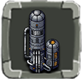
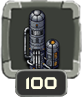
Update tower selection buttons with prices and show saved-data graphics under map
- Changed three tower selection button sprites to include price tags
- Displayed graphics below the map based on saved data

diff --git a/TowerDefense/TowerDefense/MapSelectionState.cpp b/TowerDefense/TowerDefense/MapSelectionState.cpp
@@ -1,4 +1,4 @@
-#include "MapSelectionState.h"
+#include "MapSelectionState.h"
 #include "Utility.h"
 #include "Foreach.h"
 #include "ResourceHolder.h"
@@ -45,7 +45,7 @@ MapSelectionState::MapSelectionState(StateStack& stack, Context context)
 	centerOrigin(level4);
 	unlockedLevels.push_back(level4);
 
-	// Load locked map textures (map 1 is always unlocked) (use later)
+	// Load locked map textures (map 1 is always unlocked)
 	sf::Sprite level2Locked;
 	level2Locked.setTexture(context.textures->get(Textures::miniMap2Locked));
 	level2Locked.setPosition(1380.0f, 360.0f);
@@ -73,48 +73,82 @@ MapSelectionState::MapSelectionState(StateStack& stack, Context context)
 		{
 			string temp = to_string(SaveManagement::playerResult[i].curWave + 1);
 
-			Text wave;
+			Text waveText;
+			waveText.setFont(font);
+			waveText.setCharacterSize(40);
+			waveText.setFillColor(Color::Yellow);
+			currentWave.push_back(waveText);
+
+			sf::Sprite waveIcon;
+			waveIcon.setTexture(context.textures->get(Textures::wave));
+			waveIcon.setScale(1.3f, 1.3f);
+
 			if (i == 0)
 			{
-				wave.setString(temp + "/" + to_string(3));
-				wave.setPosition(580.0f, 360.0f);
+				waveText.setString(temp + "/" + to_string(3));
+				waveText.setPosition(560.0f, 550.0f);
+				waveIcon.setPosition(480.0f, 550.0f);
 			}
 			else if (i == 1)
 			{
-				wave.setString(temp + "/" + to_string(3));
-				wave.setPosition(1380.0f, 360.0f);
+				waveText.setString(temp + "/" + to_string(3));
+				waveText.setPosition(1360.0f, 550.0f);
+				waveIcon.setPosition(1280.0f, 550.0f);
 			}
 			else if (i == 2)
 			{
-				wave.setString(temp + "/" + to_string(4));
-				wave.setPosition(580.0f, 800.0f);
+				waveText.setString(temp + "/" + to_string(4));
+				waveText.setPosition(560.0f, 990.0f);
+				waveIcon.setPosition(480.0f, 990.0f);
 			}
 			else if (i == 3)
 			{
-				wave.setString(temp + "/" + to_string(5));
-				wave.setPosition(1380.0f, 800.0f);
+				waveText.setString(temp + "/" + to_string(5));
+				waveText.setPosition(1360.0f, 990.f);
+				waveIcon.setPosition(1280.0f, 990.0f);
 			}
 
-			wave.setFont(font);
-			wave.setCharacterSize(20);
-			wave.setFillColor(Color::Yellow);
-			currentWave.push_back(wave);
+			waveInfo.push_back({ waveIcon, waveText });
 		}
+
 		else if (SaveManagement::playerResult[i].status == 1) // done playing
 		{
-			string temp = to_string(SaveManagement::playerResult[i].stars);
-			Text star;
-			star.setString("STAR" + temp);
+			int starCount = SaveManagement::playerResult[i].stars;
+			std::vector<sf::Sprite> starsForLevel;
 
-			if (i == 0) star.setPosition(580.0f, 360.0f);
-			else if (i == 1) star.setPosition(1380.0f, 360.0f);
-			else if (i == 2) star.setPosition(580.0f, 800.0f);
-			else star.setPosition(1380.0f, 800.0f);
+			if (starCount > 0)
+			{
+				const float scale = 0.7f;
+				const float spacing = 12.f;     
+				const float offsetY = 220.f;
 
-			star.setFont(font);
-			star.setCharacterSize(20);
-			star.setFillColor(Color::Yellow);
-			stars.push_back(star);
+				sf::Sprite proto;
+				proto.setTexture(context.textures->get(Textures::star));
+				proto.setScale(scale, scale);
+
+				auto lb = proto.getLocalBounds();
+				float w = lb.width * scale;
+				float h = lb.height * scale;
+
+				sf::Vector2f center = unlockedLevels[i].getPosition();
+				center.y += offsetY;
+
+				// Compute the total width of the star row, then left-most x to center it
+				float totalW = starCount * w + (starCount - 1) * spacing;
+				float startX = center.x - totalW * 0.5f;
+
+				for (int s = 0; s < starCount; ++s)
+				{
+					sf::Sprite starSprite = proto;
+					starSprite.setOrigin(lb.width * 0.5f, lb.height * 0.5f);
+
+					float x = startX + s * (w + spacing) + w * 0.5f;
+					starSprite.setPosition(x, center.y);
+					starsForLevel.push_back(starSprite);
+				}
+			}
+
+			starIcons.push_back(std::move(starsForLevel));
 		}
 	}
 
@@ -159,18 +193,20 @@ void MapSelectionState::draw()
 
 			if (SaveManagement::playerResult[i].status == -1)
 			{
-				if (currentWaveIndex < currentWave.size())
-					window.draw(currentWave[currentWaveIndex]);
-				currentWaveIndex++;
+				window.draw(waveInfo[currentWaveIndex].first);   // icon wave
+				window.draw(waveInfo[currentWaveIndex].second);  // text wave
+					currentWaveIndex++;
 			}
+
 			else if (SaveManagement::playerResult[i].status == 1)
 			{
-				if (starsIndex < stars.size())
-					window.draw(stars[starsIndex]);
+				for (auto& s : starIcons[starsIndex])
+					window.draw(s);
 				starsIndex++;
 			}
 			continue;
 		}
+
 		else
 		{
 			if (!(SaveManagement::playerResult[i - 1].win)) // Locked: previous level is not done
@@ -184,6 +220,7 @@ void MapSelectionState::draw()
 			}
 			else // Unlocked
 			{
+
 				if (unlockedLevels[i].getGlobalBounds().contains(mousePos))
 					unlockedLevels[i].setScale(1.1f, 1.1f);
 				else
@@ -193,14 +230,15 @@ void MapSelectionState::draw()
 
 				if (SaveManagement::playerResult[i].status == -1)
 				{
-					if (currentWaveIndex < currentWave.size())
-						window.draw(currentWave[currentWaveIndex]);
+					window.draw(waveInfo[currentWaveIndex].first);   // icon wave
+					window.draw(waveInfo[currentWaveIndex].second);  // text wave
 					currentWaveIndex++;
 				}
+
 				else if (SaveManagement::playerResult[i].status == 1)
 				{
-					if (starsIndex < stars.size())
-						window.draw(stars[starsIndex]);
+					for (auto& s : starIcons[starsIndex])
+						window.draw(s);
 					starsIndex++;
 				}
 			}
@@ -242,4 +280,3 @@ bool MapSelectionState::handleEvent(const sf::Event& event)
 
 	return true;
 }
-

diff --git a/TowerDefense/TowerDefense/GameState.cpp b/TowerDefense/TowerDefense/GameState.cpp
@@ -225,6 +225,16 @@ void GameState::draw()
         pauseButton.setScale(1.f, 1.f);
     window.draw(pauseButton);
 
+    if (showTowerRange)
+        window.draw(circleRange);
+
+    for (const auto& tower : towers)
+        window.draw(tower.getSprite());
+
+    for (const auto& tower : towers)
+        if (tower.isEffectPlaying())
+            window.draw(tower.getEffectSprite());
+
     for (const auto& e : enemies) {
         if (!e.hasReachedEnd() || e.getState() == DEATH) {
 
@@ -254,16 +264,6 @@ void GameState::draw()
             window.draw(hpBar);
         }
     }
-
-    if (showTowerRange)
-        window.draw(circleRange);
-
-    for (const auto& tower : towers)
-        window.draw(tower.getSprite());
-
-    for (const auto& tower : towers)
-        if (tower.isEffectPlaying())
-            window.draw(tower.getEffectSprite());
 
     for (int i = 0; i < bullets.size(); ++i) {
         if (!bullets[i].isActive())
@@ -562,11 +562,11 @@ bool GameState::handleEvent(const Event& event)
 
                 // Display tower info panel and upgrade button if upgradeable
                 infoSprite[c - 3].setPosition((float)fx + cpoint::TILE_SIZE, (float)fy - 4 * cpoint::TILE_SIZE);
-                sellButton.setPosition((float)fx + cpoint::TILE_SIZE * 3.5f, (float)fy - 4.85f * cpoint::TILE_SIZE);
+                sellButton.setPosition((float)fx + cpoint::TILE_SIZE * 3.5f, (float)fy - 4.85f * cpoint::TILE_SIZE - 50.f);
                 circleRange.setPosition((float)fx + cpoint::TILE_SIZE * 0.5f, (float)fy + cpoint::TILE_SIZE * 0.5f - 80.f);
 
                 if (c >= 3 && c <= 5) 
-                    upgradeButton.setPosition((float)fx + cpoint::TILE_SIZE, (float)fy - 4.85f * cpoint::TILE_SIZE);
+                    upgradeButton.setPosition((float)fx + cpoint::TILE_SIZE + 20.f, (float)fy - 4.85f * cpoint::TILE_SIZE - 50.f);
 
 
                 showInfo = true;

diff --git a/TowerDefense/TowerDefense/MapSelectionState.h b/TowerDefense/TowerDefense/MapSelectionState.h
@@ -17,19 +17,20 @@ public:
     virtual bool handleEvent(const sf::Event& event);
 
 private:
-    sf::Sprite				    backgroundSprite;
-    sf::Sprite                  homeButton;
-    std::vector<sf::Sprite>     unlockedLevels;
-    std::vector<sf::Sprite>     lockedLevels;
+    sf::Sprite				                        backgroundSprite;
+    sf::Sprite                                      homeButton;
+
+    std::vector<std::vector<sf::Sprite>>            starIcons;
+    std::vector<std::pair<sf::Sprite, sf::Text>>    waveInfo;
+    std::vector<sf::Sprite>                         unlockedLevels;
+    std::vector<sf::Sprite>                         lockedLevels;
 
 public:
     static int levelID;
 
 private:
-    Font font;
-    vector<sf::Text>      stars;
-    vector<sf::Text>      currentWave;
-
-    sf::Text      playerName;
+    Font                                            font;
+    vector<sf::Text>                                currentWave;
+    sf::Text                                        playerName;
 };
 

diff --git a/TowerDefense/TowerDefense/Application.cpp b/TowerDefense/TowerDefense/Application.cpp
@@ -105,6 +105,7 @@ Application::Application()
     mTextures.load(Textures::miniMap2Locked, "Media/UI/miniMapLocked/miniMap2Locked.png");
     mTextures.load(Textures::miniMap3Locked, "Media/UI/miniMapLocked/miniMap3Locked.png");
     mTextures.load(Textures::miniMap4Locked, "Media/UI/miniMapLocked/miniMap4Locked.png");
+    mTextures.load(Textures::wave, "Media/UI/icons/wave.png");
 
     // Load UI in PauseState 
     mTextures.load(Textures::pauseButton, "Media/UI/buttons/pauseButton.png");

diff --git a/TowerDefense/TowerDefense/ResourceIdentifiers.h b/TowerDefense/TowerDefense/ResourceIdentifiers.h
@@ -101,6 +101,7 @@ namespace Textures
         miniMap2Locked,
         miniMap3Locked,
         miniMap4Locked,
+        wave,
 
         // UI for GameState
         pauseButton,
